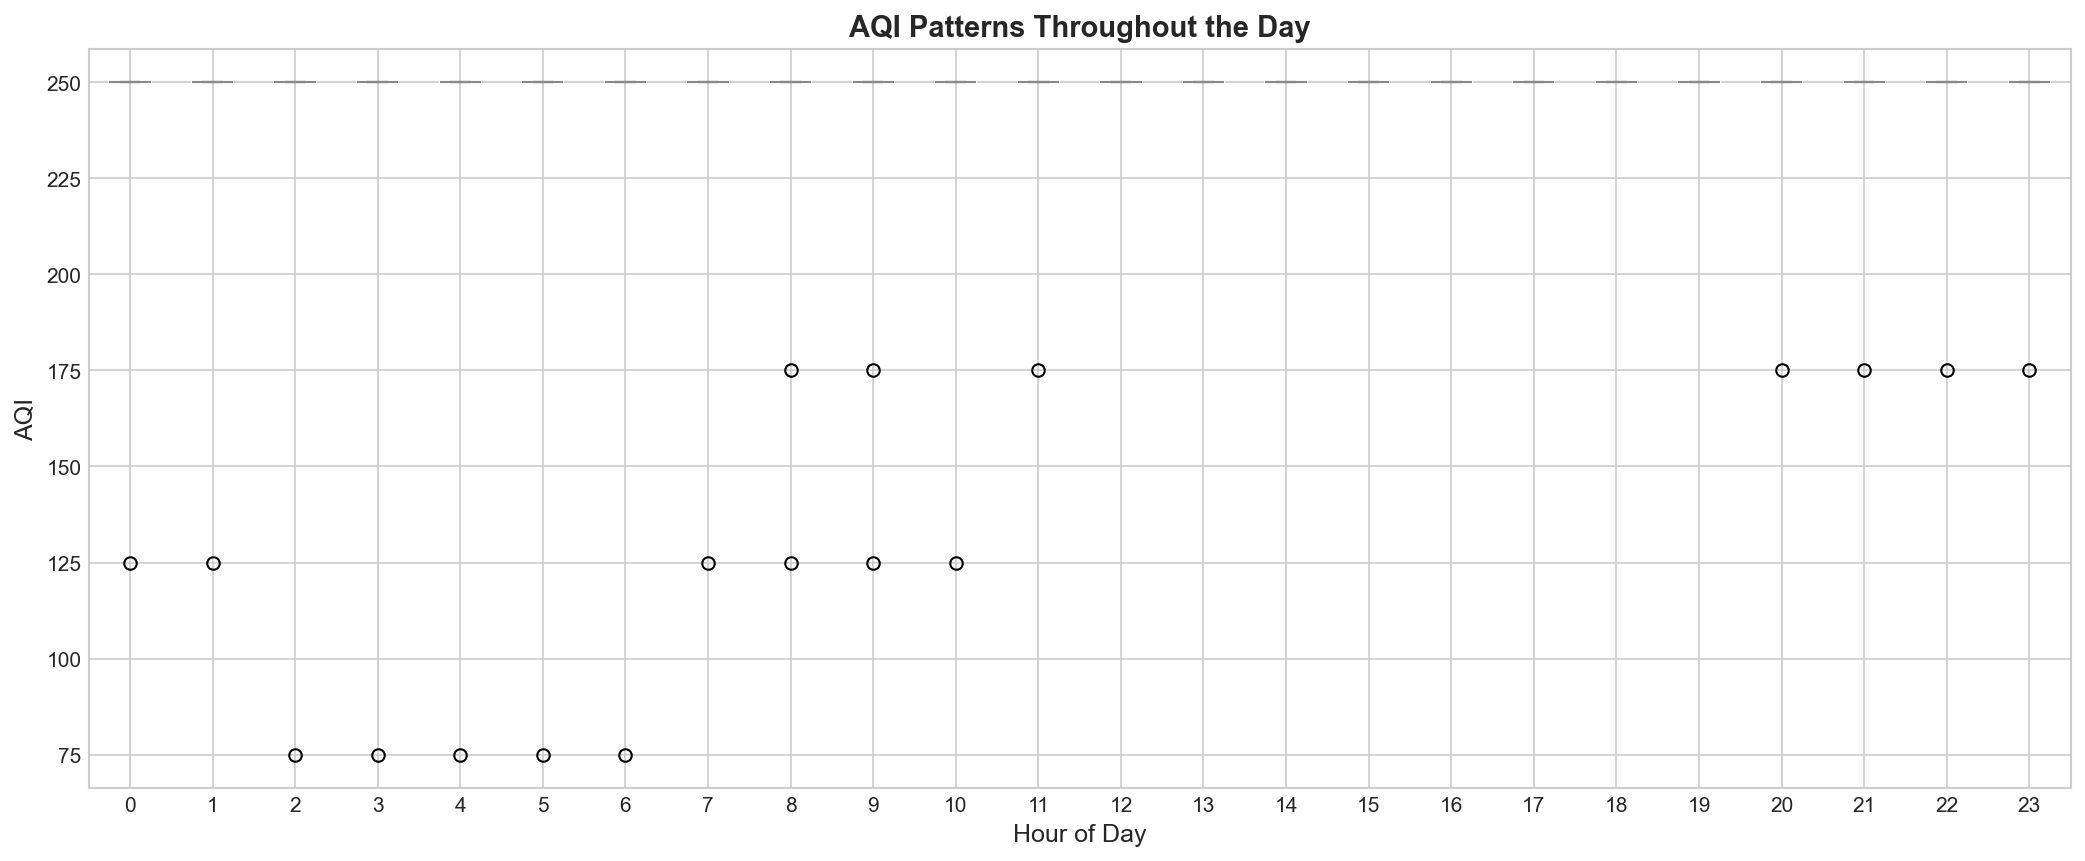
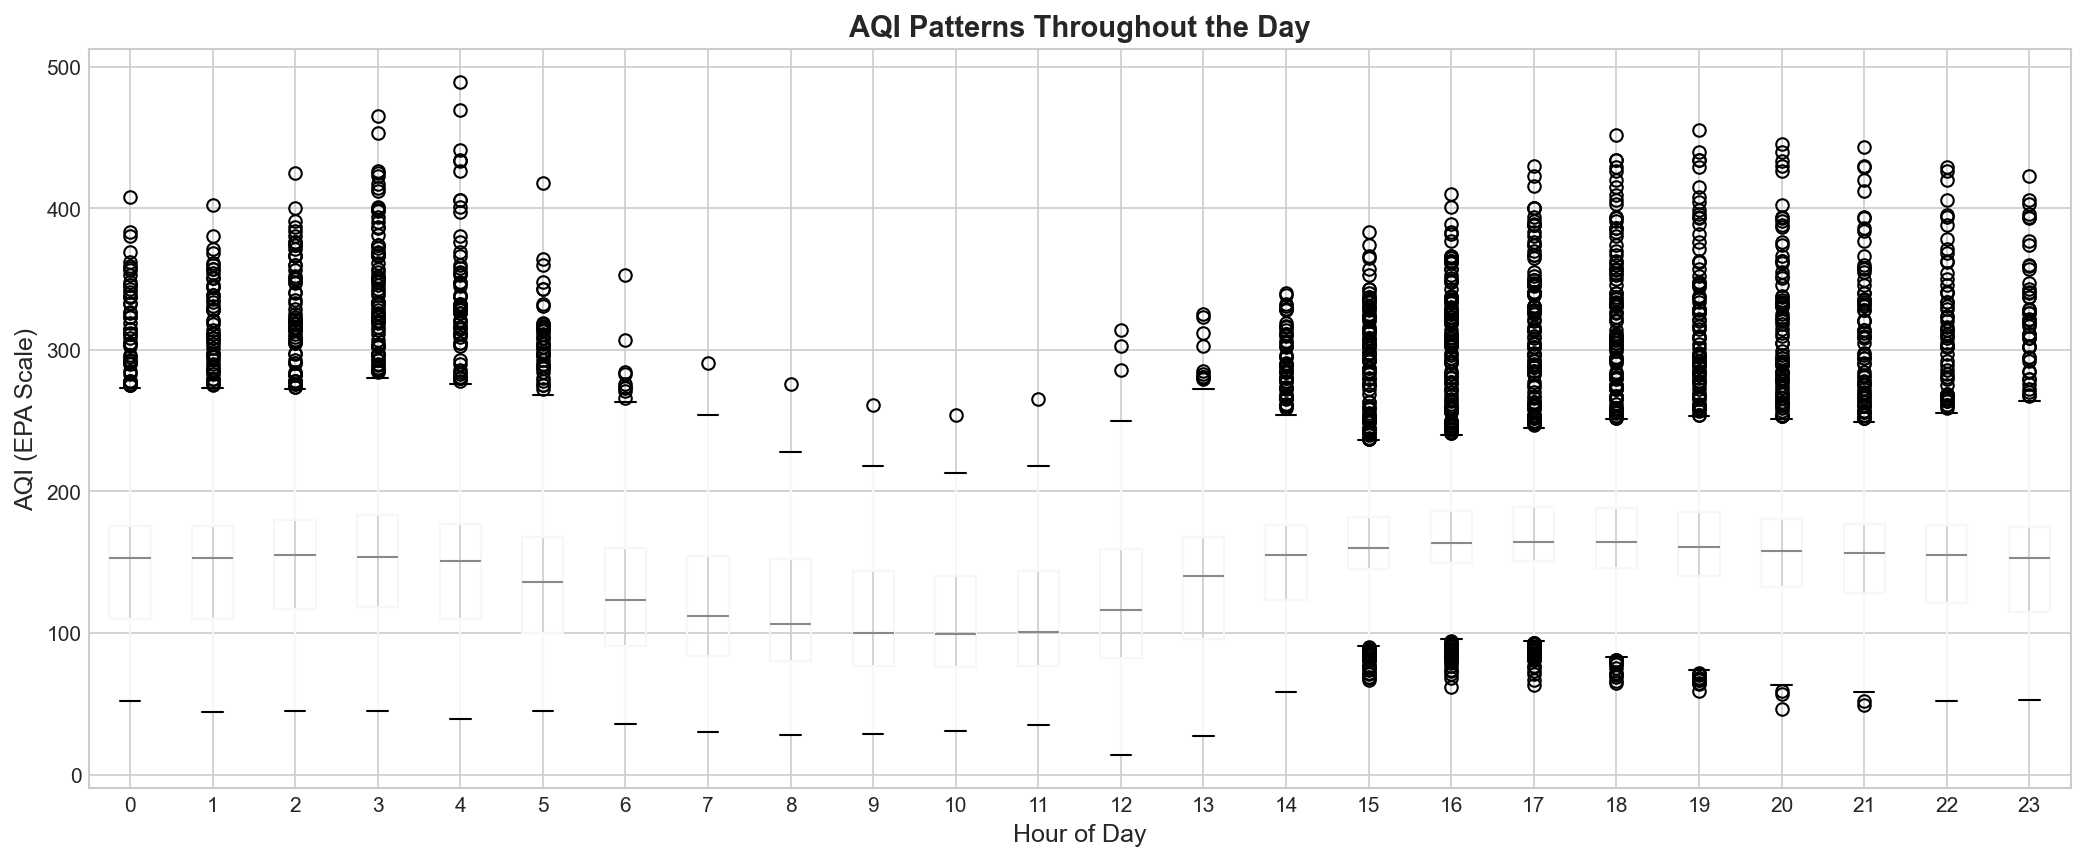
Fix EDA charts: use EPA AQI from PM2.5 instead of aqi_standard, add weather to correlation

diff --git a/src/eda_analysis.py b/src/eda_analysis.py
@@ -33,6 +33,20 @@ def load_data_from_mongodb():
     return df
 
 
+def pm25_to_aqi(pm25):
+    """Convert PM2.5 to EPA AQI using breakpoints."""
+    breakpoints = [
+        (0, 12.0, 0, 50), (12.1, 35.4, 51, 100), (35.5, 55.4, 101, 150),
+        (55.5, 150.4, 151, 200), (150.5, 250.4, 201, 300), (250.5, 500.4, 301, 500),
+    ]
+    if pm25 < 0: return 0
+    if pm25 > 500: return 500
+    for pm_low, pm_high, aqi_low, aqi_high in breakpoints:
+        if pm_low <= pm25 <= pm_high:
+            return round(((aqi_high - aqi_low) / (pm_high - pm_low)) * (pm25 - pm_low) + aqi_low)
+    return 500
+
+
 def clean_data(df):
     """Clean data: parse timestamps, remove duplicates, sort chronologically."""
     print("\nCleaning data...")
@@ -51,6 +65,11 @@ def clean_data(df):
         df['month'] = df['timestamp'].dt.month
         df['is_weekend'] = df['day_of_week'].isin([5, 6]).astype(int)
     
+    # Compute EPA AQI from PM2.5
+    if 'pm2_5' in df.columns:
+        df['epa_aqi'] = df['pm2_5'].apply(pm25_to_aqi)
+        print(f"   EPA AQI computed from PM2.5 (range: {df['epa_aqi'].min()}-{df['epa_aqi'].max()})")
+    
     duplicates = df.duplicated(subset=['timestamp'], keep='first').sum()
     if duplicates > 0:
         df = df.drop_duplicates(subset=['timestamp'], keep='first')
@@ -67,16 +86,16 @@ def generate_summary_statistics(df):
     print("SUMMARY STATISTICS")
     print("=" * 60)
     
-    numeric_cols = ['aqi', 'aqi_standard', 'pm2_5', 'pm10', 'no2', 'o3', 'co', 'so2']
+    numeric_cols = ['epa_aqi', 'pm2_5', 'pm10', 'no2', 'o3', 'co', 'so2']
     available_cols = [col for col in numeric_cols if col in df.columns]
     
     if available_cols:
         stats = df[available_cols].describe()
         print(stats.round(2).to_string())
         
-        if 'aqi_standard' in df.columns:
-            print(f"\n   Average AQI: {df['aqi_standard'].mean():.1f}")
-            print(f"   AQI Range: {df['aqi_standard'].min():.0f} - {df['aqi_standard'].max():.0f}")
+        if 'epa_aqi' in df.columns:
+            print(f"\n   Average EPA AQI: {df['epa_aqi'].mean():.1f}")
+            print(f"   AQI Range: {df['epa_aqi'].min():.0f} - {df['epa_aqi'].max():.0f}")
         if 'pm2_5' in df.columns:
             print(f"   Average PM2.5: {df['pm2_5'].mean():.2f} ug/m3")
 
@@ -91,14 +110,14 @@ def create_visualizations(df, output_dir="notebooks/eda_charts"):
     
     # 1. AQI Over Time
     fig, ax = plt.subplots(figsize=(14, 6))
-    ax.plot(df['timestamp'], df['aqi_standard'], linewidth=1, alpha=0.7, color='#e74c3c')
-    ax.fill_between(df['timestamp'], df['aqi_standard'], alpha=0.3, color='#e74c3c')
+    ax.plot(df['timestamp'], df['epa_aqi'], linewidth=0.8, alpha=0.7, color='#e74c3c')
+    ax.fill_between(df['timestamp'], df['epa_aqi'], alpha=0.2, color='#e74c3c')
     ax.axhline(y=50, color='green', linestyle='--', alpha=0.5, label='Good (0-50)')
     ax.axhline(y=100, color='yellow', linestyle='--', alpha=0.5, label='Moderate (51-100)')
     ax.axhline(y=150, color='orange', linestyle='--', alpha=0.5, label='Unhealthy for Sensitive (101-150)')
     ax.axhline(y=200, color='red', linestyle='--', alpha=0.5, label='Unhealthy (151-200)')
     ax.set_xlabel('Date', fontsize=12)
-    ax.set_ylabel('AQI (Standard Scale)', fontsize=12)
+    ax.set_ylabel('AQI (EPA Scale)', fontsize=12)
     ax.set_title('Air Quality Index Over Time - Faisalabad', fontsize=14, fontweight='bold')
     ax.legend(loc='upper right')
     plt.xticks(rotation=45)
@@ -108,7 +127,7 @@ def create_visualizations(df, output_dir="notebooks/eda_charts"):
     
     # 2. AQI Distribution
     fig, ax = plt.subplots(figsize=(10, 6))
-    n, bins, patches = ax.hist(df['aqi_standard'], bins=30, edgecolor='white', alpha=0.7)
+    n, bins, patches = ax.hist(df['epa_aqi'], bins=30, edgecolor='white', alpha=0.7)
     for i, patch in enumerate(patches):
         bin_center = (bins[i] + bins[i+1]) / 2
         if bin_center <= 50:
@@ -121,9 +140,9 @@ def create_visualizations(df, output_dir="notebooks/eda_charts"):
             patch.set_facecolor('red')
         else:
             patch.set_facecolor('purple')
-    ax.axvline(df['aqi_standard'].mean(), color='black', linestyle='--', linewidth=2, label=f'Mean: {df["aqi_standard"].mean():.1f}')
-    ax.set_xlabel('AQI Value', fontsize=12)
-    ax.set_ylabel('Frequency', fontsize=12)
+    ax.axvline(df['epa_aqi'].mean(), color='black', linestyle='--', linewidth=2, label=f'Mean: {df["epa_aqi"].mean():.1f}')
+    ax.set_xlabel('AQI (EPA Scale)', fontsize=12)
+    ax.set_ylabel('Frequency (Count)', fontsize=12)
     ax.set_title('Distribution of AQI Values', fontsize=14, fontweight='bold')
     ax.legend()
     plt.tight_layout()
@@ -132,9 +151,9 @@ def create_visualizations(df, output_dir="notebooks/eda_charts"):
     
     # 3. AQI by Hour (Box Plot)
     fig, ax = plt.subplots(figsize=(14, 6))
-    df.boxplot(column='aqi_standard', by='hour', ax=ax)
+    df.boxplot(column='epa_aqi', by='hour', ax=ax)
     ax.set_xlabel('Hour of Day', fontsize=12)
-    ax.set_ylabel('AQI', fontsize=12)
+    ax.set_ylabel('AQI (EPA Scale)', fontsize=12)
     ax.set_title('AQI Patterns Throughout the Day', fontsize=14, fontweight='bold')
     plt.suptitle('')
     plt.tight_layout()
@@ -144,12 +163,12 @@ def create_visualizations(df, output_dir="notebooks/eda_charts"):
     # 4. AQI by Day of Week
     fig, ax = plt.subplots(figsize=(10, 6))
     day_order = ['Monday', 'Tuesday', 'Wednesday', 'Thursday', 'Friday', 'Saturday', 'Sunday']
-    daily_avg = df.groupby('day_name')['aqi_standard'].mean().reindex(day_order)
+    daily_avg = df.groupby('day_name')['epa_aqi'].mean().reindex(day_order)
     colors = ['#3498db' if day not in ['Saturday', 'Sunday'] else '#e74c3c' for day in day_order]
     ax.bar(day_order, daily_avg.values, color=colors, edgecolor='white')
-    ax.axhline(y=df['aqi_standard'].mean(), color='black', linestyle='--', label=f'Overall Mean: {df["aqi_standard"].mean():.1f}')
+    ax.axhline(y=df['epa_aqi'].mean(), color='black', linestyle='--', label=f'Overall Mean: {df["epa_aqi"].mean():.1f}')
     ax.set_xlabel('Day of Week', fontsize=12)
-    ax.set_ylabel('Average AQI', fontsize=12)
+    ax.set_ylabel('Average AQI (EPA Scale)', fontsize=12)
     ax.set_title('Average AQI by Day of Week (Red = Weekend)', fontsize=14, fontweight='bold')
     ax.legend()
     plt.xticks(rotation=45)
@@ -158,9 +177,9 @@ def create_visualizations(df, output_dir="notebooks/eda_charts"):
     plt.close()
     
     # 5. Correlation Heatmap
-    corr_cols = ['aqi_standard', 'pm2_5', 'pm10', 'no2', 'o3', 'co', 'so2', 'hour', 'day_of_week']
+    corr_cols = ['epa_aqi', 'pm2_5', 'pm10', 'no2', 'o3', 'co', 'so2', 'temperature', 'humidity', 'wind_speed', 'hour']
     available_corr_cols = [col for col in corr_cols if col in df.columns]
-    fig, ax = plt.subplots(figsize=(10, 8))
+    fig, ax = plt.subplots(figsize=(12, 10))
     correlation_matrix = df[available_corr_cols].corr()
     sns.heatmap(correlation_matrix, annot=True, cmap='RdYlBu_r', center=0, 
                 square=True, linewidths=0.5, ax=ax, fmt='.2f', annot_kws={'size': 10})
@@ -171,7 +190,7 @@ def create_visualizations(df, output_dir="notebooks/eda_charts"):
     
     # 6. PM2.5 vs PM10 Scatter
     fig, ax = plt.subplots(figsize=(10, 8))
-    scatter = ax.scatter(df['pm2_5'], df['pm10'], c=df['aqi_standard'], 
+    scatter = ax.scatter(df['pm2_5'], df['pm10'], c=df['epa_aqi'], 
                         cmap='RdYlGn_r', alpha=0.6, s=50)
     plt.colorbar(scatter, label='AQI')
     ax.set_xlabel('PM2.5 (ug/m3)', fontsize=12)
